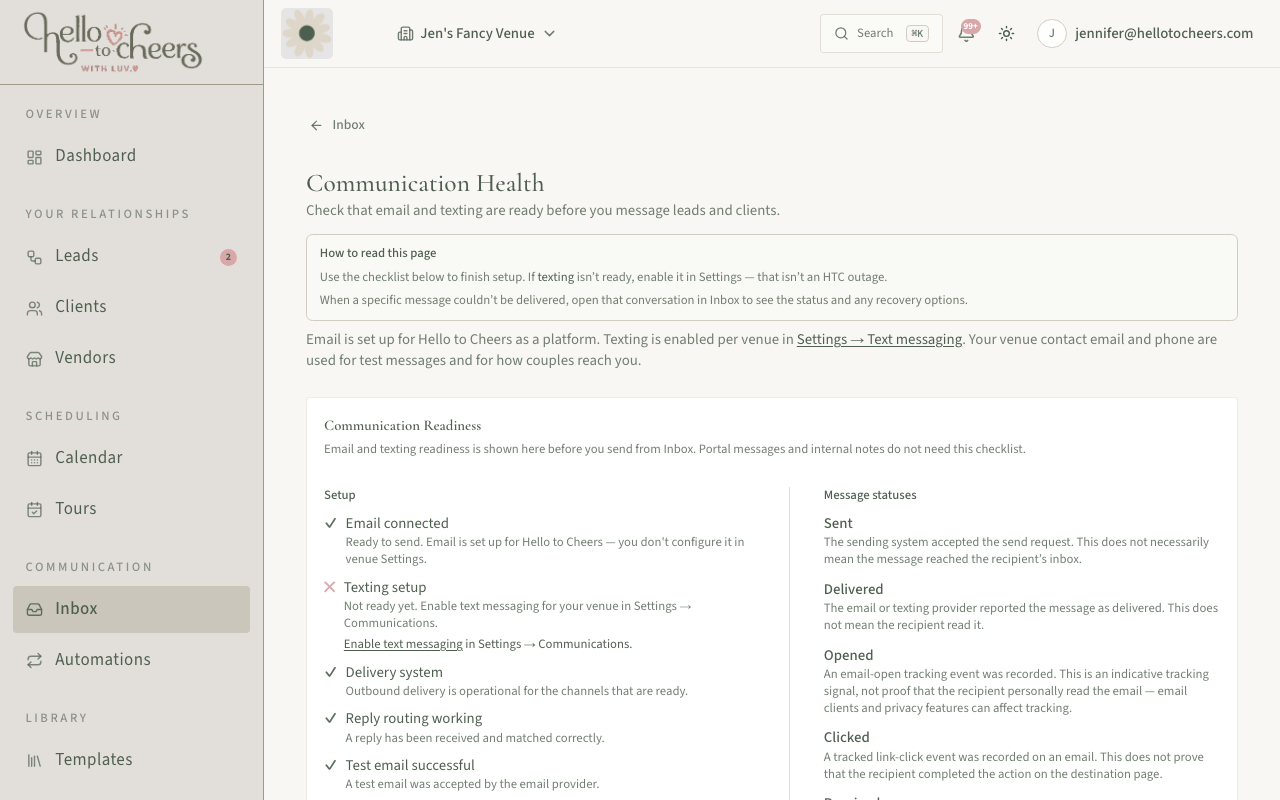
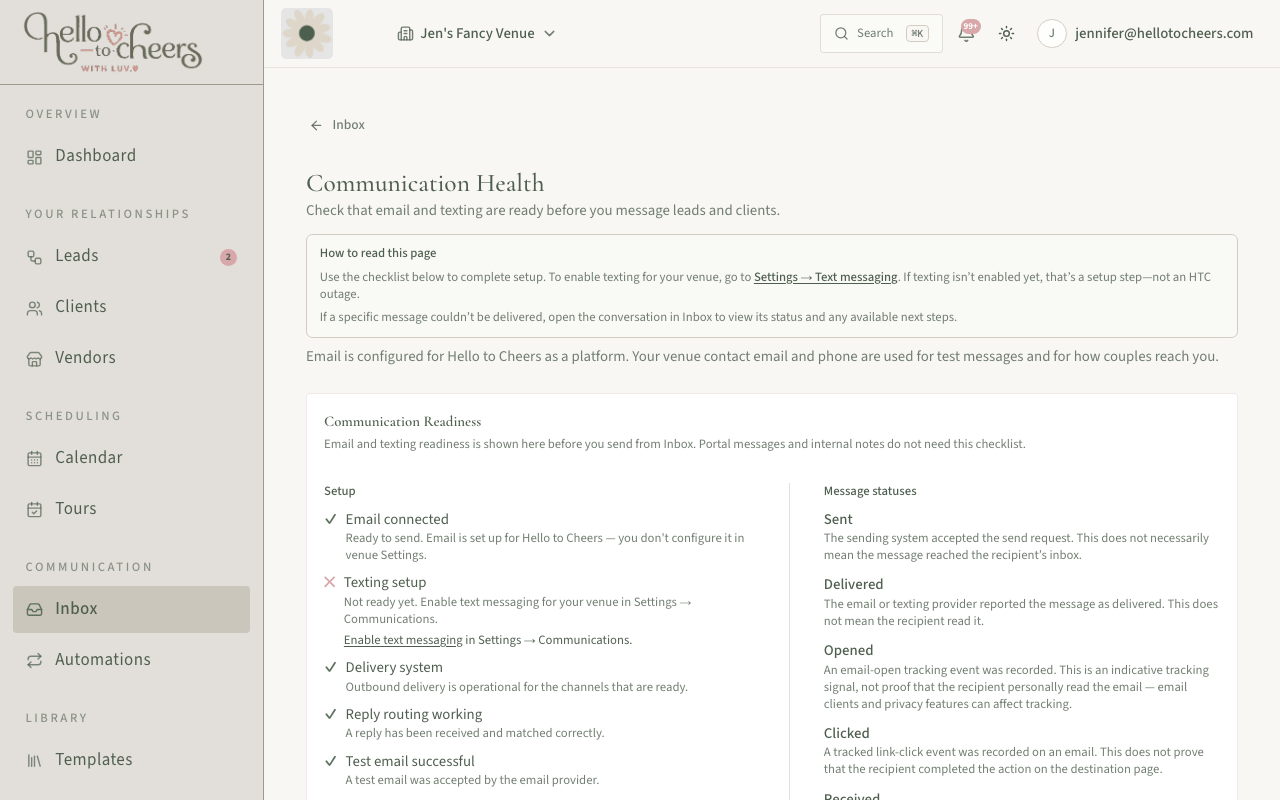
Record Sandbox proof for Communication Readiness copy cleanup.

diff --git a/docs/qa/communication-readiness-copy/STATUS.md b/docs/qa/communication-readiness-copy/STATUS.md
@@ -1,19 +1,25 @@
 # Communication Readiness copy cleanup
 
-**Status: IMPLEMENTATION — Sandbox deploy/verify pending**
+**Status: GREEN / CLOSED**
 
 | Field | Value |
 |-------|--------|
-| Page | `/messaging/health` (Communication Health / Readiness) |
+| Page | `/messaging/health` |
 | Source | `app/(app)/messaging/health/page.tsx` |
-| Scope | Copy only — no layout/behavior/provider changes |
-| Production | Untouched |
+| Commit | `511b757aebb34125b0b1696671c179dd1545977f` |
+| Serving SHA | `511b757aebb34125b0b1696671c179dd1545977f` (exact image tag) |
+| Deploy | https://github.com/jlcormier612/wevenu-website/actions/runs/38627285603 (**success**) |
+| Focused tests | **21 pass / 0 fail** |
+| Browser | **PASS** — `health-1280.png`, `health-390.png`, `browser-results.json` |
+| Production / Resend / DNS | Untouched · **0** emails |
 
-## Exact copy changes
+## Exact copy (verified on Sandbox)
 
-**How to read this page** → complete-setup wording + Settings → Text messaging link inside the box; Inbox next-steps sentence updated.  
-**Beneath the box** → “Email is configured…” (removed redundant per-venue texting sentence; link moved into the box).
+**How to read this page**
+- Use the checklist below to complete setup. To enable texting for your venue, go to **Settings → Text messaging**. If texting isn’t enabled yet, that’s a setup step—not an HTC outage.
+- If a specific message couldn’t be delivered, open the conversation in Inbox to view its status and any available next steps.
 
-## Tests
+**Beneath the box**
+- Email is configured for Hello to Cheers as a platform. Your venue contact email and phone are used for test messages and for how couples reach you.
 
-`npx tsx --test lib/communication/health-back-nav.test.ts` (+ related health presentation tests): **21 pass / 0 fail**.
+Link destination confirmed: `/settings/communications#texting`. Checklist present. No layout/behavior changes.
